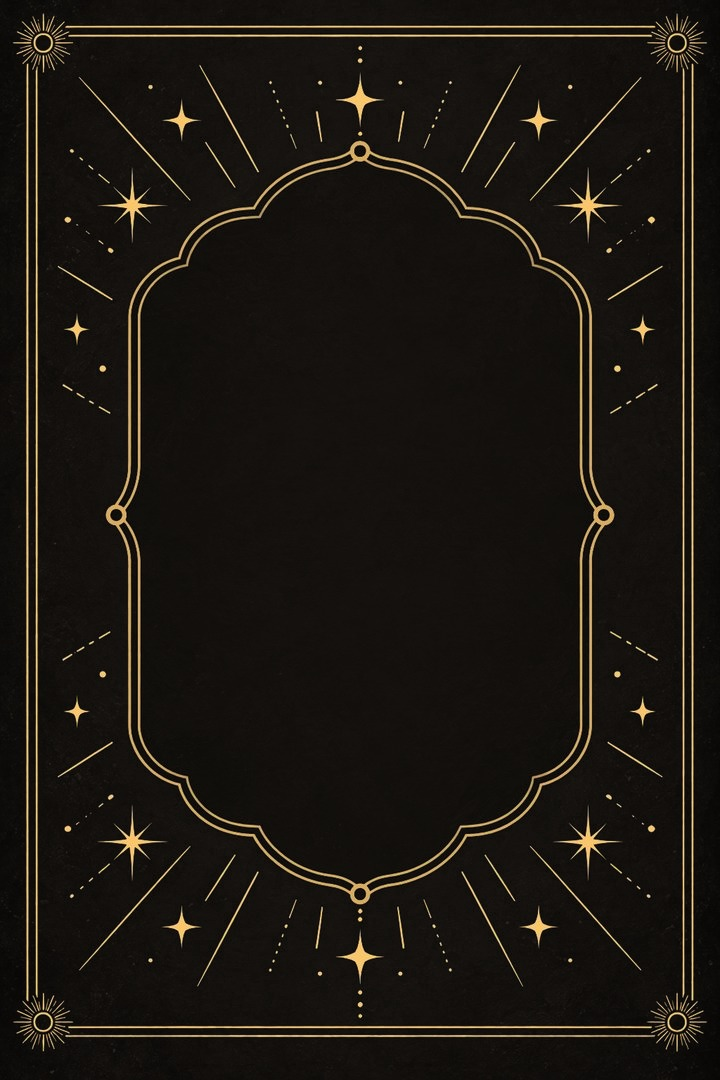
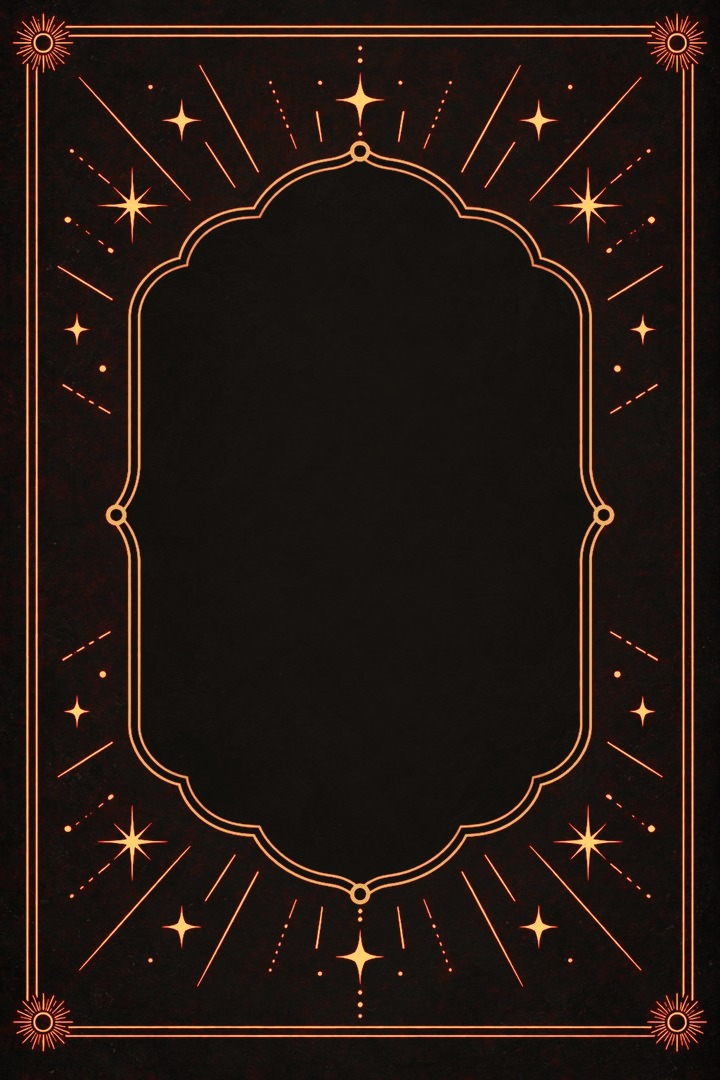
Give every back the same ornament, carminefirst
У Жезлов не было внутренней рамки — контура картуша. Причина глубже порога: на их
старой рубашке контур ярче фона всего на двадцатую, он стёрся при давней перекраске
масти, когда её тон меняли на #6D1A01. Маска Жезлов сходится с карминовой лишь на 69%,
тогда как у Кубков, Мечей и Пентаклей — на 98%.

Рисунок у всех восьми рубашек общий, они собраны из одних слоёв, поэтому орнамент
теперь снимается с одной самой чёткой — карминовой — и ставится всем. Контур картуша
вернулся, и рисунок стал единым по всей колоде. Шуту тот же орнамент наносится краской
цвета его подписи, #4A2E18.

Светотень при этом берётся из своей рубашки, а не из эталона: у кармина картуш темнее
фона, у бронзы Шута вровень с ним, и чужое затемнение утягивало всю бронзу — Шут
уезжал от своих лиц на 16.7 при допуске 12, а контраст текста падал до 4.2 при
требуемых 4.5. Тон после любых действий с орнаментом возвращается нормировкой, и
теперь она работает всегда, а не только в тёмном режиме.

Замеры: расхождение с лицами 1.3–7.7, с тоном своей группы 0.7–1.3, контраст текста
в картуше 5.0–10.6 к одному. Мимо требований не идёт ни одна рубашка.

Claude-Session: https://claude.ai/code/session_01FcjeFzp3mmV4ywoCKrWjfL

diff --git a/scripts/reface_back.py b/scripts/reface_back.py
@@ -88,9 +88,10 @@ def shade(painted: Image.Image, back: Image.Image, deepen: float = 1.0) -> Image
 def restore_level(result: Image.Image, target: tuple[int, int, int]) -> Image.Image:
     """Возвращает фону заданный тон после усиления затемнений.
 
-    Усиление, которым вытягивают тёмный орнамент на светлой рубашке, затемняет
-    заодно и всё поле: бронза Шута уехала от своих лиц на 15 при допуске 12.
-    Здесь медиана результата приводится обратно к медиане заданного тона.
+    Перенос светотени и усиление, которым вытягивают тёмный орнамент на светлой
+    рубашке, затемняют заодно и всё поле: бронза Шута уезжала от своих лиц на 15–17
+    при допуске 12. Здесь медиана результата приводится обратно к медиане заданного
+    тона, и тон перестаёт зависеть от того, что делалось с орнаментом.
     """
     grey = result.convert("L")
     want = round(0.299 * target[0] + 0.587 * target[1] + 0.114 * target[2])
@@ -109,33 +110,47 @@ def main() -> int:
     parser.add_argument("out", type=Path)
     parser.add_argument("--dark", action="store_true",
                         help="орнамент темнее фона, как на бронзовой рубашке Шута")
+    parser.add_argument("--ornament", type=Path,
+                        help="рубашка, с которой снять орнамент (по умолчанию своя)")
+    parser.add_argument("--ink", help='залить орнамент цветом, например "#4A2E18"')
     args = parser.parse_args()
 
     back = Image.open(args.back).convert("RGB")
     field = Image.open(args.field).convert("RGB").resize(back.size, Image.LANCZOS)
 
+    # Орнамент на всех восьми рубашках один и тот же: они собраны из одних слоёв,
+    # и маски сходятся на 98%. Но на Жезлах контур картуша стёрся при давней
+    # перекраске — там он ярче фона всего на двадцатую, — поэтому орнамент берут
+    # с самой чёткой рубашки и ставят всем, чтобы рисунок был единым.
+    source = Image.open(args.ornament).convert("RGB").resize(back.size, Image.LANCZOS) \
+        if args.ornament else back
+
     # На светлой рубашке тёмный орнамент отличается от фона всего на проценты:
     # контур картуша у Шута темнее его бронзы на девять, и на фактурном поле он
     # тонет. Поэтому там затемнения усиливаются.
-    painted = shade(tint(field, hex_to_rgb(args.tone)), back, 3.0 if args.dark else 1.0)
+    # Светотень берут из своей рубашки, когда орнамент на неё только наносится
+    # краской: у кармина картуш темнее фона, а у бронзы Шута вровень с ним, и чужое
+    # затемнение утягивает всю бронзу.
+    shading = source if args.ornament and not (args.ink or args.dark) else back
+    painted = shade(tint(field, hex_to_rgb(args.tone)), shading, 3.0 if args.dark else 1.0)
 
     if args.dark:
         # Весь орнамент здесь темнее фона и уже перенесён светотенью: золота нет
         result = painted
         told = "орнамент перенесён целиком как затемнение"
     else:
-        mask, share = gold_mask(back)
+        mask, share = gold_mask(source)
         if not GOLD_MIN <= share <= GOLD_MAX:
             print(
                 f"орнамент занял {share:.0%} кадра — порогом по яркости он от фона не "
                 "отделяется. Если он темнее фона, пустите с --dark."
             )
             return 1
-        result = Image.composite(back, painted, mask)
+        ink = Image.new("RGB", back.size, hex_to_rgb(args.ink)) if args.ink else source
+        result = Image.composite(ink, painted, mask)
         told = f"орнамент ({share:.0%} кадра) пересажен"
 
-    if args.dark:
-        result = restore_level(result, hex_to_rgb(args.tone))
+    result = restore_level(result, hex_to_rgb(args.tone))
     result.save(args.out, quality=92, optimize=True)
 
     print(f"{told} на новое поле в тоне {args.tone} → {args.out}")

diff --git a/docs/design/cards.md b/docs/design/cards.md
@@ -213,8 +213,19 @@
 возвращается на место, иначе усиление утягивает всю бронзу и она расходится с лицом
 Шута на 15 при допуске 12.
 
-Собранные рубашки расходятся со своими лицами на 0.0–5.7, а контраст текста
-в картуше держится от 5.4 до 10.7 к одному.
+Орнамент для всех восьми снимают с одной рубашки — `--ornament`. Рисунок у них общий,
+маски сходятся на 98%, но на Жезлах контур картуша стёрся при давней перекраске: он
+ярче фона всего на двадцатую, и его маска сходится с карминовой лишь на 69%. С общим
+эталоном контур возвращается, и рисунок становится единым по всей колоде. Шуту тот же
+орнамент наносят краской `--ink` цвета его подписи, `#4A2E18`.
+
+Светотень при этом берут из своей рубашки, а не из эталона: у кармина картуш темнее
+фона, у бронзы Шута вровень с ним, и чужое затемнение утягивает всю бронзу. Тон после
+любых действий с орнаментом возвращается нормировкой — без неё Шут уезжал от своих
+лиц на 15–17 при допуске 12.
+
+Собранные рубашки расходятся со своими лицами на 1.3–7.7, от тона своей группы — на
+0.7–1.3, а контраст текста в картуше держится от 5.0 до 10.6 к одному.
 
 Симметрию при повороте на 180° не просят у генератора, а собирают:
 `scripts/mirror_back.py` берёт верхнюю половину рубашки, поворачивает её и ставит
